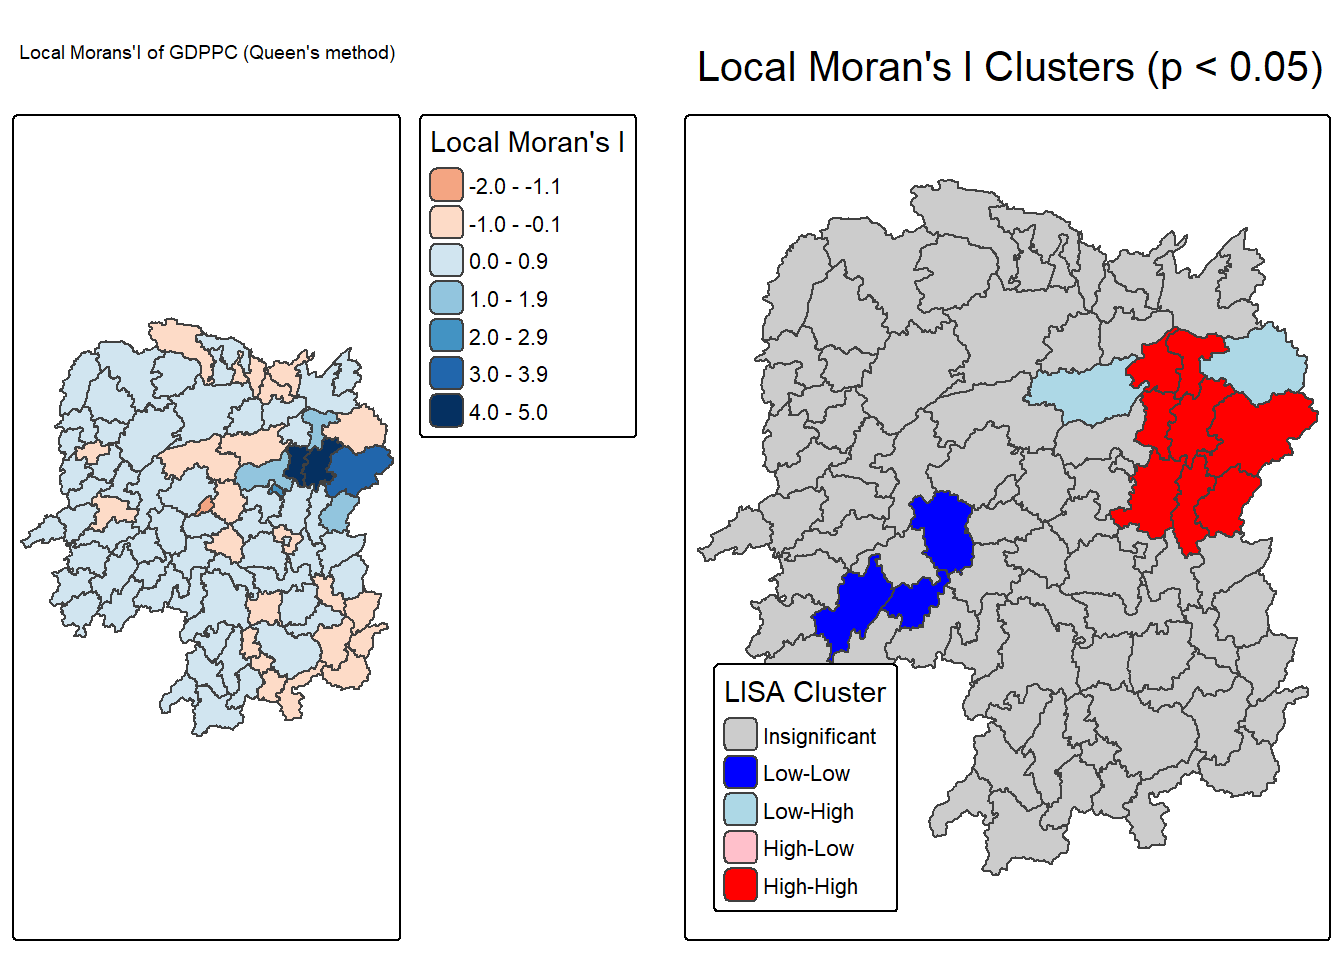
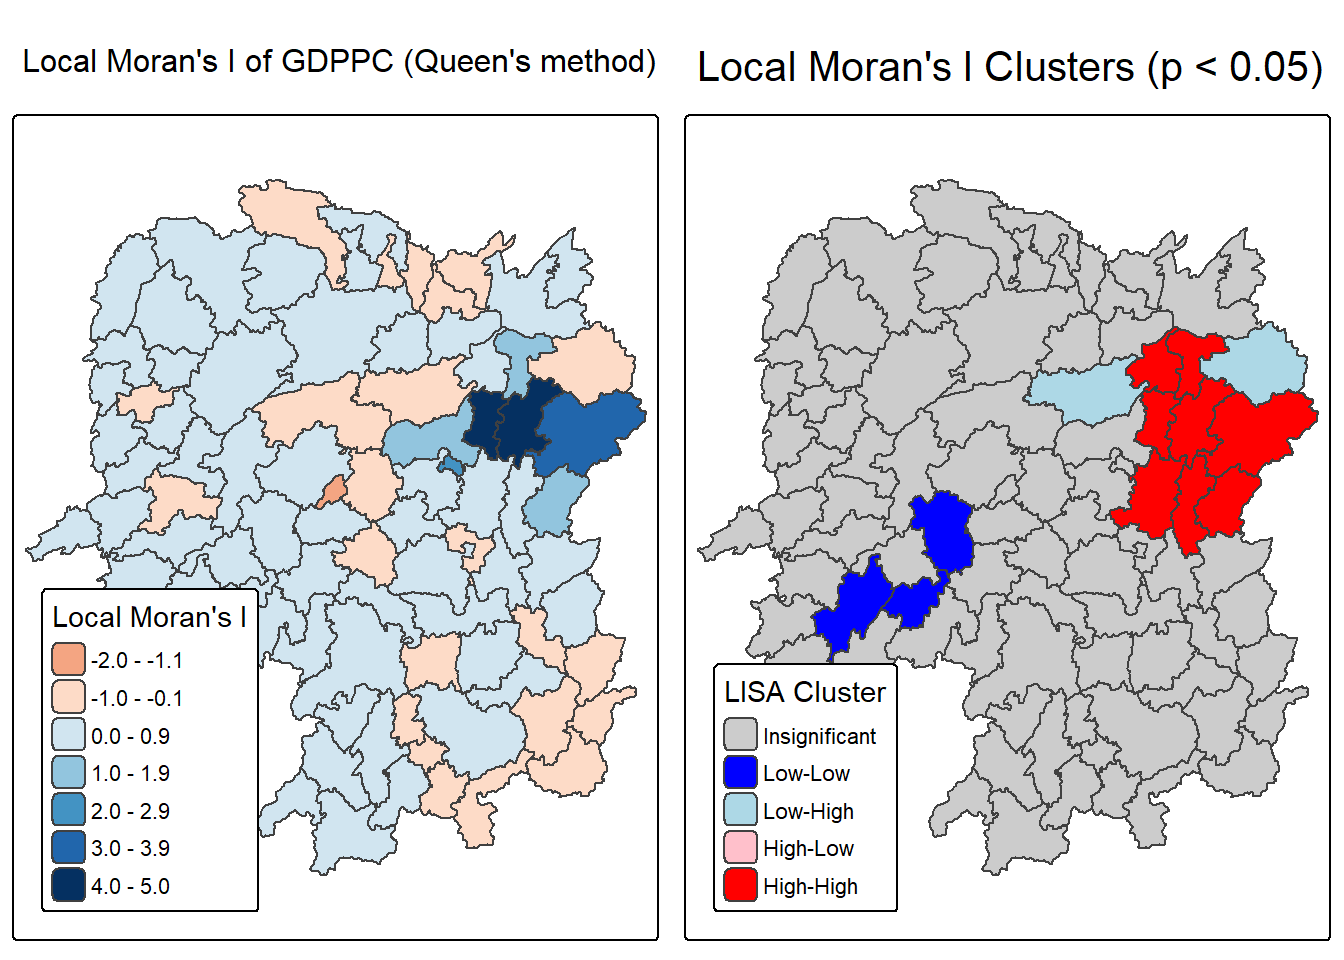
Commit 10

Changed region(s): [[0.0, 0.125, 0.5, 0.9688], [0.0, 0.0312, 0.5, 0.0938]]

diff --git a/Hands-on_Ex5b/Hands-on_Ex5b.html b/Hands-on_Ex5b/Hands-on_Ex5b.html
@@ -243,8 +243,8 @@ pre > code.sourceCode > span > a:first-child::before { text-decoration: underlin
   </ul></li>
   <li><a href="#hot-spots-and-cold-spots-analysis-hcsa" id="toc-hot-spots-and-cold-spots-analysis-hcsa" class="nav-link" data-scroll-target="#hot-spots-and-cold-spots-analysis-hcsa">Hot Spots and Cold Spots Analysis (HCSA)</a>
   <ul class="collapse">
-  <li><a href="#deriving-distance-weight-matrix" id="toc-deriving-distance-weight-matrix" class="nav-link" data-scroll-target="#deriving-distance-weight-matrix">*10.5.1 <strong>Deriving Distance Weight Matrix</strong></a></li>
-  <li><a href="#computing-fixed-distance-weights" id="toc-computing-fixed-distance-weights" class="nav-link" data-scroll-target="#computing-fixed-distance-weights">*10.5.1.1 <strong>Computing Fixed Distance Weights</strong></a></li>
+  <li><a href="#deriving-distance-weight-matrix" id="toc-deriving-distance-weight-matrix" class="nav-link" data-scroll-target="#deriving-distance-weight-matrix"><strong>Deriving Distance Weight Matrix</strong></a></li>
+  <li><a href="#computing-fixed-distance-weights" id="toc-computing-fixed-distance-weights" class="nav-link" data-scroll-target="#computing-fixed-distance-weights"><strong>Computing Fixed Distance Weights</strong></a></li>
   <li><a href="#computing-adaptive-distance-weights" id="toc-computing-adaptive-distance-weights" class="nav-link" data-scroll-target="#computing-adaptive-distance-weights"><strong>Computing Adaptive Distance Weights</strong></a></li>
   <li><a href="#computing-adaptive-distance-weights-1" id="toc-computing-adaptive-distance-weights-1" class="nav-link" data-scroll-target="#computing-adaptive-distance-weights-1"><strong>Computing Adaptive Distance Weights</strong></a></li>
   <li><a href="#computing-local-gi" id="toc-computing-local-gi" class="nav-link" data-scroll-target="#computing-local-gi">Computing Local Gi*</a></li>
@@ -871,29 +871,30 @@ Note
 <span id="cb25-6"><a href="#cb25-6" aria-hidden="true" tabindex="-1"></a>                <span class="at">values =</span> <span class="st">"brewer.RdBu"</span>), </span>
 <span id="cb25-7"><a href="#cb25-7" aria-hidden="true" tabindex="-1"></a>              <span class="at">fill.legend =</span> <span class="fu">tm_legend</span>( </span>
 <span id="cb25-8"><a href="#cb25-8" aria-hidden="true" tabindex="-1"></a>                <span class="at">title =</span> <span class="st">"Local Moran's I"</span>, </span>
-<span id="cb25-9"><a href="#cb25-9" aria-hidden="true" tabindex="-1"></a>                <span class="at">position =</span> <span class="fu">tm_pos_out</span>())) <span class="sc">+</span> </span>
-<span id="cb25-10"><a href="#cb25-10" aria-hidden="true" tabindex="-1"></a>  <span class="fu">tm_borders</span>(<span class="at">fill_alpha =</span> <span class="fl">0.5</span>) <span class="sc">+</span> </span>
-<span id="cb25-11"><a href="#cb25-11" aria-hidden="true" tabindex="-1"></a>  <span class="fu">tm_title</span>(<span class="st">"Local Morans'I of GDPPC (Queen's method)"</span>)</span>
-<span id="cb25-12"><a href="#cb25-12" aria-hidden="true" tabindex="-1"></a></span>
-<span id="cb25-13"><a href="#cb25-13" aria-hidden="true" tabindex="-1"></a>lisa_map <span class="ot">&lt;-</span> <span class="fu">tm_shape</span>(lisa) <span class="sc">+</span> </span>
-<span id="cb25-14"><a href="#cb25-14" aria-hidden="true" tabindex="-1"></a>  <span class="fu">tm_polygons</span>( </span>
-<span id="cb25-15"><a href="#cb25-15" aria-hidden="true" tabindex="-1"></a>    <span class="at">fill =</span> <span class="st">"LISA_cluster"</span>, </span>
-<span id="cb25-16"><a href="#cb25-16" aria-hidden="true" tabindex="-1"></a>    <span class="at">fill.scale =</span> <span class="fu">tm_scale_categorical</span>( </span>
-<span id="cb25-17"><a href="#cb25-17" aria-hidden="true" tabindex="-1"></a>      <span class="at">values =</span> <span class="fu">c</span>( </span>
-<span id="cb25-18"><a href="#cb25-18" aria-hidden="true" tabindex="-1"></a>        <span class="st">"grey80"</span>, <span class="co"># Insignificant </span></span>
-<span id="cb25-19"><a href="#cb25-19" aria-hidden="true" tabindex="-1"></a>        <span class="st">"blue"</span>, <span class="co"># Low-Low </span></span>
-<span id="cb25-20"><a href="#cb25-20" aria-hidden="true" tabindex="-1"></a>        <span class="st">"lightblue"</span>, <span class="co"># Low-High </span></span>
-<span id="cb25-21"><a href="#cb25-21" aria-hidden="true" tabindex="-1"></a>        <span class="st">"pink"</span>, <span class="co"># High-Low </span></span>
-<span id="cb25-22"><a href="#cb25-22" aria-hidden="true" tabindex="-1"></a>        <span class="st">"red"</span> <span class="co"># High-High </span></span>
-<span id="cb25-23"><a href="#cb25-23" aria-hidden="true" tabindex="-1"></a>    ) </span>
-<span id="cb25-24"><a href="#cb25-24" aria-hidden="true" tabindex="-1"></a>  ), </span>
-<span id="cb25-25"><a href="#cb25-25" aria-hidden="true" tabindex="-1"></a>  <span class="at">fill.legend =</span> <span class="fu">tm_legend</span>( </span>
-<span id="cb25-26"><a href="#cb25-26" aria-hidden="true" tabindex="-1"></a>    <span class="at">title =</span> <span class="st">"LISA Cluster"</span>, </span>
-<span id="cb25-27"><a href="#cb25-27" aria-hidden="true" tabindex="-1"></a>    <span class="at">position =</span> <span class="fu">tm_pos_in</span>(<span class="st">"left"</span>, <span class="st">"bottom"</span>)) </span>
-<span id="cb25-28"><a href="#cb25-28" aria-hidden="true" tabindex="-1"></a>  ) <span class="sc">+</span> </span>
-<span id="cb25-29"><a href="#cb25-29" aria-hidden="true" tabindex="-1"></a>  <span class="fu">tm_borders</span>() <span class="sc">+</span> </span>
-<span id="cb25-30"><a href="#cb25-30" aria-hidden="true" tabindex="-1"></a>  <span class="fu">tm_title</span>(<span class="st">"Local Moran's I Clusters (p &lt; 0.05)"</span>) </span>
-<span id="cb25-31"><a href="#cb25-31" aria-hidden="true" tabindex="-1"></a>lisa_map</span></code></pre></div><button title="Copy to Clipboard" class="code-copy-button"><i class="bi"></i></button></div>
+<span id="cb25-9"><a href="#cb25-9" aria-hidden="true" tabindex="-1"></a>                <span class="at">position =</span> <span class="fu">tm_pos_in</span>( </span>
+<span id="cb25-10"><a href="#cb25-10" aria-hidden="true" tabindex="-1"></a>                  <span class="st">"left"</span>, <span class="st">"bottom"</span>))) <span class="sc">+</span> </span>
+<span id="cb25-11"><a href="#cb25-11" aria-hidden="true" tabindex="-1"></a>  <span class="fu">tm_borders</span>(<span class="at">fill_alpha =</span> <span class="fl">0.5</span>) <span class="sc">+</span> </span>
+<span id="cb25-12"><a href="#cb25-12" aria-hidden="true" tabindex="-1"></a>  <span class="fu">tm_title</span>(<span class="st">"Local Moran's I of GDPPC (Queen's method)"</span>)</span>
+<span id="cb25-13"><a href="#cb25-13" aria-hidden="true" tabindex="-1"></a></span>
+<span id="cb25-14"><a href="#cb25-14" aria-hidden="true" tabindex="-1"></a>lisa_map <span class="ot">&lt;-</span> <span class="fu">tm_shape</span>(lisa) <span class="sc">+</span> </span>
+<span id="cb25-15"><a href="#cb25-15" aria-hidden="true" tabindex="-1"></a>  <span class="fu">tm_polygons</span>( </span>
+<span id="cb25-16"><a href="#cb25-16" aria-hidden="true" tabindex="-1"></a>    <span class="at">fill =</span> <span class="st">"LISA_cluster"</span>, </span>
+<span id="cb25-17"><a href="#cb25-17" aria-hidden="true" tabindex="-1"></a>    <span class="at">fill.scale =</span> <span class="fu">tm_scale_categorical</span>( </span>
+<span id="cb25-18"><a href="#cb25-18" aria-hidden="true" tabindex="-1"></a>      <span class="at">values =</span> <span class="fu">c</span>( </span>
+<span id="cb25-19"><a href="#cb25-19" aria-hidden="true" tabindex="-1"></a>        <span class="st">"grey80"</span>, <span class="co"># Insignificant </span></span>
+<span id="cb25-20"><a href="#cb25-20" aria-hidden="true" tabindex="-1"></a>        <span class="st">"blue"</span>, <span class="co"># Low-Low </span></span>
+<span id="cb25-21"><a href="#cb25-21" aria-hidden="true" tabindex="-1"></a>        <span class="st">"lightblue"</span>, <span class="co"># Low-High </span></span>
+<span id="cb25-22"><a href="#cb25-22" aria-hidden="true" tabindex="-1"></a>        <span class="st">"pink"</span>, <span class="co"># High-Low </span></span>
+<span id="cb25-23"><a href="#cb25-23" aria-hidden="true" tabindex="-1"></a>        <span class="st">"red"</span> <span class="co"># High-High </span></span>
+<span id="cb25-24"><a href="#cb25-24" aria-hidden="true" tabindex="-1"></a>    ) </span>
+<span id="cb25-25"><a href="#cb25-25" aria-hidden="true" tabindex="-1"></a>  ), </span>
+<span id="cb25-26"><a href="#cb25-26" aria-hidden="true" tabindex="-1"></a>  <span class="at">fill.legend =</span> <span class="fu">tm_legend</span>( </span>
+<span id="cb25-27"><a href="#cb25-27" aria-hidden="true" tabindex="-1"></a>    <span class="at">title =</span> <span class="st">"LISA Cluster"</span>, </span>
+<span id="cb25-28"><a href="#cb25-28" aria-hidden="true" tabindex="-1"></a>    <span class="at">position =</span> <span class="fu">tm_pos_in</span>(<span class="st">"left"</span>, <span class="st">"bottom"</span>)) </span>
+<span id="cb25-29"><a href="#cb25-29" aria-hidden="true" tabindex="-1"></a>  ) <span class="sc">+</span> </span>
+<span id="cb25-30"><a href="#cb25-30" aria-hidden="true" tabindex="-1"></a>  <span class="fu">tm_borders</span>() <span class="sc">+</span> </span>
+<span id="cb25-31"><a href="#cb25-31" aria-hidden="true" tabindex="-1"></a>  <span class="fu">tm_title</span>(<span class="st">"Local Moran's I Clusters (p &lt; 0.05)"</span>) </span>
+<span id="cb25-32"><a href="#cb25-32" aria-hidden="true" tabindex="-1"></a>lisa_map</span></code></pre></div><button title="Copy to Clipboard" class="code-copy-button"><i class="bi"></i></button></div>
 <div class="cell-output-display">
 <div>
 <figure class="figure">
@@ -941,7 +942,7 @@ Note
 <li>Communicating the analysis results</li>
 </ul>
 <section id="deriving-distance-weight-matrix" class="level3">
-<h3 class="anchored" data-anchor-id="deriving-distance-weight-matrix">*10.5.1 <strong>Deriving Distance Weight Matrix</strong></h3>
+<h3 class="anchored" data-anchor-id="deriving-distance-weight-matrix"><strong>Deriving Distance Weight Matrix</strong></h3>
 <p>Whist the spatial autocorrelation considered units which shared borders, for Getis-Ord Gi* statistics, we are defining neighbours based on distance.</p>
 <p>There are two type of distance-based proximity matrix, they are:</p>
 <ul>
@@ -951,7 +952,7 @@ Note
 </ul>
 </section>
 <section id="computing-fixed-distance-weights" class="level3">
-<h3 class="anchored" data-anchor-id="computing-fixed-distance-weights">*10.5.1.1 <strong>Computing Fixed Distance Weights</strong></h3>
+<h3 class="anchored" data-anchor-id="computing-fixed-distance-weights"><strong>Computing Fixed Distance Weights</strong></h3>
 <p>In this section, you will learn how to compute fixed distance weight matrix by using st_dist_band() and st_weights() of sfdep package.</p>
 <p>Firstly, we need to determine the upper limit for distance band by using the steps below:</p>
 <div class="cell">
